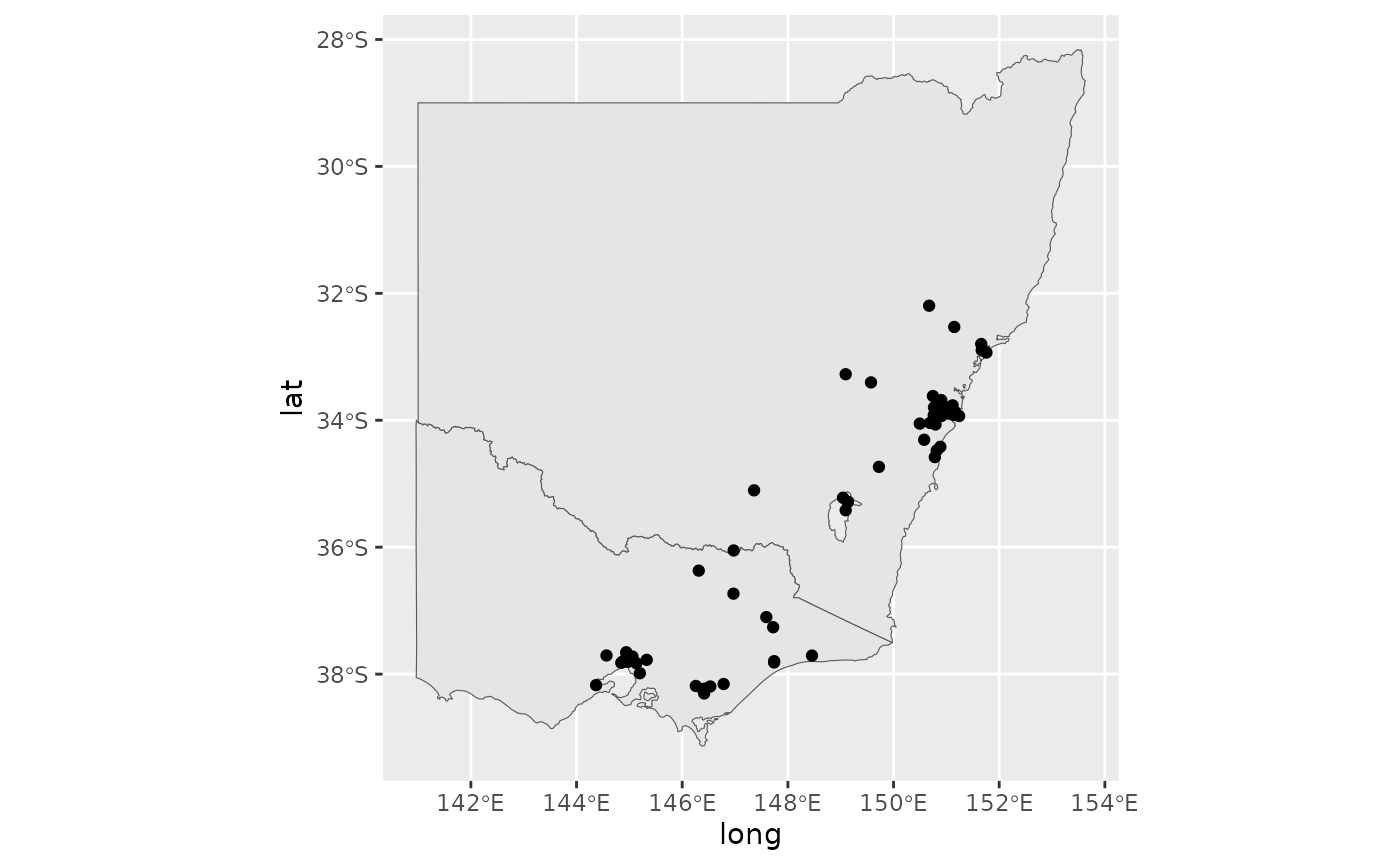
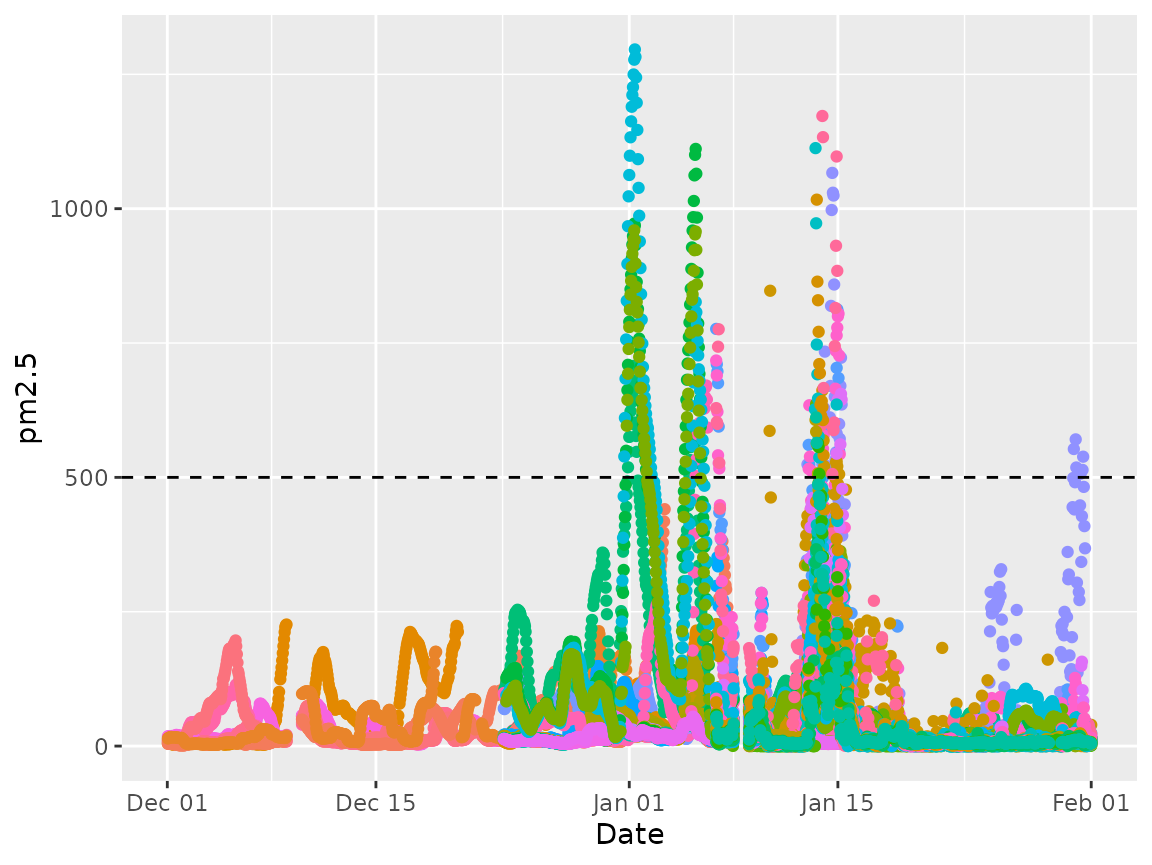
Deploying to gh-pages from @ numbats/airpurifyr@7b11ae33c0d1ab57e42b31f432745a7abb1edffd 🚀

diff --git a/articles/map-in-australia.html b/articles/map-in-australia.html
@@ -77,7 +77,11 @@
 
     
     
-<p>This helps you to understand</p>
+<p>Here we walk through a basic workflow for working with OpenAQ data
+inside <code>airpurifyr</code>. The aim is to produce some plots about
+the <a href="https://en.wikipedia.org/wiki/2019%E2%80%9320_Australian_bushfire_season" class="external-link">2019-20
+Australian Bushfire Season</a>, where air quality was extremely
+poor.</p>
 <div class="sourceCode" id="cb1"><pre class="downlit sourceCode r">
 <code class="sourceCode R"><span><span class="kw"><a href="https://rdrr.io/r/base/library.html" class="external-link">library</a></span><span class="op">(</span><span class="va"><a href="https://numbats.github.io/airpurifyr/">airpurifyr</a></span><span class="op">)</span></span>
 <span><span class="kw"><a href="https://rdrr.io/r/base/library.html" class="external-link">library</a></span><span class="op">(</span><span class="va"><a href="https://github.com/mdsumner/ozmaps" class="external-link">ozmaps</a></span><span class="op">)</span></span>
@@ -87,6 +91,17 @@
 <span><span class="kw"><a href="https://rdrr.io/r/base/library.html" class="external-link">library</a></span><span class="op">(</span><span class="va"><a href="https://colorspace.R-Forge.R-project.org/" class="external-link">colorspace</a></span><span class="op">)</span></span>
 <span><span class="kw"><a href="https://rdrr.io/r/base/library.html" class="external-link">library</a></span><span class="op">(</span><span class="va"><a href="https://tsibble.tidyverts.org" class="external-link">tsibble</a></span><span class="op">)</span></span>
 <span><span class="kw"><a href="https://rdrr.io/r/base/library.html" class="external-link">library</a></span><span class="op">(</span><span class="va"><a href="https://gganimate.com" class="external-link">gganimate</a></span><span class="op">)</span></span></code></pre></div>
+<p>The first step when working with <code>airpurifyr</code> is to set
+your API key. Register your key at <a href="https://explore.openaq.org/register" class="external-link">https://explore.openaq.org/register</a>,
+and set this key using <code><a href="../reference/set_openaq_api_key.html">set_openaq_api_key()</a></code>. Note you
+<em>can</em> access data without an API key, but it is heavily
+restricted, so the package will give you a warning for each query you
+run without an API key set.</p>
+<p>With your API key set, our first task is to find all the locations on
+the east coast of Australia. This is non-trivial, as the “locations”
+provided by OpenAQ related to sensors rather than physical locations.
+The easiest (but most API intensive) method to get locations is to
+download for a large region, and then filter.</p>
 <div class="sourceCode" id="cb2"><pre class="downlit sourceCode r">
 <code class="sourceCode R"><span><span class="va">all_aus_locations</span> <span class="op">&lt;-</span> <span class="fu"><a href="../reference/get_measurements_for_location.html">get_measurements_for_location</a></span><span class="op">(</span></span>
 <span>  country <span class="op">=</span> <span class="st">"AU"</span>,</span>
@@ -94,9 +109,19 @@
 <span>  date_from <span class="op">=</span> <span class="fu">lubridate</span><span class="fu">::</span><span class="fu"><a href="https://lubridate.tidyverse.org/reference/ymd.html" class="external-link">ymd</a></span><span class="op">(</span><span class="st">"2020-01-01"</span><span class="op">)</span>,</span>
 <span>  date_to <span class="op">=</span> <span class="fu">lubridate</span><span class="fu">::</span><span class="fu"><a href="https://lubridate.tidyverse.org/reference/ymd.html" class="external-link">ymd</a></span><span class="op">(</span><span class="st">"2020-01-14"</span><span class="op">)</span>,</span>
 <span>  parameter <span class="op">=</span> <span class="st">"pm25"</span></span>
-<span><span class="op">)</span></span>
-<span></span>
-<span><span class="va">locations_of_interest</span> <span class="op">&lt;-</span> <span class="va">all_aus_locations</span> <span class="op">|&gt;</span></span>
+<span><span class="op">)</span></span></code></pre></div>
+<p>Here, we have asked for data from Australia, from 1 Jan 2020 to 14
+Jan 2020, restricted to pm2.5. Restricting the date range and the
+parameter means that we need less API calls. Considering we are only
+using this data to get a list of stations, the smaller the set the
+better.</p>
+<p>We recommend using about two weeks of time to get locations, as not
+all sensors report on all days.</p>
+<p>Next, we filter down these locations using latitude and longitude,
+and pull down the data we actually want for a much longer period of
+time.</p>
+<div class="sourceCode" id="cb3"><pre class="downlit sourceCode r">
+<code class="sourceCode R"><span><span class="va">locations_of_interest</span> <span class="op">&lt;-</span> <span class="va">all_aus_locations</span> <span class="op">|&gt;</span></span>
 <span>  <span class="co"># East coast of Australia (roughly)</span></span>
 <span>  <span class="fu">dplyr</span><span class="fu">::</span><span class="fu"><a href="https://dplyr.tidyverse.org/reference/filter.html" class="external-link">filter</a></span><span class="op">(</span><span class="va">long</span> <span class="op">&gt;</span> <span class="fl">141</span>, <span class="va">lat</span> <span class="op">&lt;</span> <span class="op">-</span><span class="fl">31</span><span class="op">)</span> <span class="op">|&gt;</span></span>
 <span>  <span class="fu">dplyr</span><span class="fu">::</span><span class="fu"><a href="https://dplyr.tidyverse.org/reference/distinct.html" class="external-link">distinct</a></span><span class="op">(</span><span class="va">location</span><span class="op">)</span> <span class="op">|&gt;</span></span>
@@ -110,7 +135,28 @@
 <span>  date_to <span class="op">=</span> <span class="fu">lubridate</span><span class="fu">::</span><span class="fu"><a href="https://lubridate.tidyverse.org/reference/ymd.html" class="external-link">ymd</a></span><span class="op">(</span><span class="st">"2020-02-01"</span><span class="op">)</span>,</span>
 <span>  parameter <span class="op">=</span> <span class="st">"pm25"</span></span>
 <span><span class="op">)</span></span></code></pre></div>
-<div class="sourceCode" id="cb3"><pre class="downlit sourceCode r">
+<p>If you run this example, you’ll notice this query takes a very long
+time. This is because it is quite a few locations for 90 days, with
+sensors generally reporting hourly. Here we have increased the
+<code>max_observations</code> parameter which makes each query larger
+but reduces the number of queries. If you are having troubles with Error
+408 (HTTP timeout) then this can be a fix.</p>
+<p>The resulting data looks like this:</p>
+<div class="sourceCode" id="cb4"><pre class="downlit sourceCode r">
+<code class="sourceCode R"><span><span class="fu"><a href="https://rdrr.io/r/utils/head.html" class="external-link">head</a></span><span class="op">(</span><span class="va">au_east_coast_2020</span><span class="op">)</span></span>
+<span><span class="co">#&gt; <span style="color: #949494;"># A tibble: 6 × 9</span></span></span>
+<span><span class="co">#&gt;   location_id location parameter value date_utc            unit    lat  long</span></span>
+<span><span class="co">#&gt;         <span style="color: #949494; font-style: italic;">&lt;int&gt;</span> <span style="color: #949494; font-style: italic;">&lt;chr&gt;</span>    <span style="color: #949494; font-style: italic;">&lt;chr&gt;</span>     <span style="color: #949494; font-style: italic;">&lt;dbl&gt;</span> <span style="color: #949494; font-style: italic;">&lt;dttm&gt;</span>              <span style="color: #949494; font-style: italic;">&lt;chr&gt;</span> <span style="color: #949494; font-style: italic;">&lt;dbl&gt;</span> <span style="color: #949494; font-style: italic;">&lt;dbl&gt;</span></span></span>
+<span><span class="co">#&gt; <span style="color: #BCBCBC;">1</span>        <span style="text-decoration: underline;">2</span>487 Bathurst pm25        9.9 2020-02-01 <span style="color: #949494;">00:00:00</span> µg/m³ -<span style="color: #BB0000;">33.4</span>  150.</span></span>
+<span><span class="co">#&gt; <span style="color: #BCBCBC;">2</span>        <span style="text-decoration: underline;">2</span>487 Bathurst pm25       10.3 2020-01-31 <span style="color: #949494;">23:00:00</span> µg/m³ -<span style="color: #BB0000;">33.4</span>  150.</span></span>
+<span><span class="co">#&gt; <span style="color: #BCBCBC;">3</span>        <span style="text-decoration: underline;">2</span>487 Bathurst pm25       10.8 2020-01-31 <span style="color: #949494;">22:00:00</span> µg/m³ -<span style="color: #BB0000;">33.4</span>  150.</span></span>
+<span><span class="co">#&gt; <span style="color: #BCBCBC;">4</span>        <span style="text-decoration: underline;">2</span>487 Bathurst pm25       11.3 2020-01-31 <span style="color: #949494;">21:00:00</span> µg/m³ -<span style="color: #BB0000;">33.4</span>  150.</span></span>
+<span><span class="co">#&gt; <span style="color: #BCBCBC;">5</span>        <span style="text-decoration: underline;">2</span>487 Bathurst pm25       12.1 2020-01-31 <span style="color: #949494;">20:00:00</span> µg/m³ -<span style="color: #BB0000;">33.4</span>  150.</span></span>
+<span><span class="co">#&gt; <span style="color: #BCBCBC;">6</span>        <span style="text-decoration: underline;">2</span>487 Bathurst pm25       12.4 2020-01-31 <span style="color: #949494;">19:00:00</span> µg/m³ -<span style="color: #BB0000;">33.4</span>  150.</span></span>
+<span><span class="co">#&gt; <span style="color: #949494;"># ℹ 1 more variable: country &lt;chr&gt;</span></span></span></code></pre></div>
+<p>We can visualise the stations by looking at their latitude and
+longitude from the dataset.</p>
+<div class="sourceCode" id="cb5"><pre class="downlit sourceCode r">
 <code class="sourceCode R"><span><span class="va">states</span> <span class="op">&lt;-</span> <span class="fu">ozmaps</span><span class="fu">::</span><span class="va"><a href="https://rdrr.io/pkg/ozmaps/man/ozmap_states.html" class="external-link">ozmap_states</a></span> <span class="op">|&gt;</span></span>
 <span>  <span class="fu"><a href="https://dplyr.tidyverse.org/reference/filter.html" class="external-link">filter</a></span><span class="op">(</span><span class="va">NAME</span> <span class="op"><a href="https://rdrr.io/r/base/match.html" class="external-link">%in%</a></span> <span class="fu"><a href="https://rdrr.io/r/base/c.html" class="external-link">c</a></span><span class="op">(</span><span class="st">"New South Wales"</span>, <span class="st">"Victoria"</span><span class="op">)</span><span class="op">)</span></span>
 <span></span>
@@ -120,18 +166,24 @@
 <span><span class="fu"><a href="https://ggplot2.tidyverse.org/reference/ggplot.html" class="external-link">ggplot</a></span><span class="op">(</span><span class="va">states</span><span class="op">)</span> <span class="op">+</span></span>
 <span>  <span class="fu"><a href="https://ggplot2.tidyverse.org/reference/ggsf.html" class="external-link">geom_sf</a></span><span class="op">(</span><span class="op">)</span> <span class="op">+</span></span>
 <span>  <span class="fu"><a href="https://ggplot2.tidyverse.org/reference/geom_point.html" class="external-link">geom_point</a></span><span class="op">(</span><span class="fu"><a href="https://ggplot2.tidyverse.org/reference/aes.html" class="external-link">aes</a></span><span class="op">(</span>x<span class="op">=</span><span class="va">long</span>, y<span class="op">=</span><span class="va">lat</span><span class="op">)</span>, data <span class="op">=</span> <span class="va">stations</span><span class="op">)</span></span></code></pre></div>
-<p><img src="map-in-australia_files/figure-html/unnamed-chunk-3-1.png" width="700"></p>
-<div class="sourceCode" id="cb4"><pre class="downlit sourceCode r">
-<code class="sourceCode R"><span><span class="va">time_series_stations</span> <span class="op">&lt;-</span> <span class="va">au_east_coast_2020</span> <span class="op">|&gt;</span></span>
-<span>  <span class="fu"><a href="https://tsibble.tidyverts.org/reference/as-tsibble.html" class="external-link">as_tsibble</a></span><span class="op">(</span>index <span class="op">=</span> <span class="va">date_utc</span>, key <span class="op">=</span> <span class="va">location</span><span class="op">)</span> <span class="op">|&gt;</span></span>
-<span>  <span class="fu"><a href="https://tsibble.tidyverts.org/reference/fill_gaps.html" class="external-link">fill_gaps</a></span><span class="op">(</span>value <span class="op">=</span> <span class="fl">1</span>, .start <span class="op">=</span> <span class="fu"><a href="https://rdrr.io/r/base/Extremes.html" class="external-link">min</a></span><span class="op">(</span><span class="va">au_east_coast_2020</span><span class="op">$</span><span class="va">date_utc</span><span class="op">)</span><span class="op">)</span> <span class="op">|&gt;</span></span>
-<span>  <span class="fu"><a href="https://dplyr.tidyverse.org/reference/group_by.html" class="external-link">group_by</a></span><span class="op">(</span><span class="va">location</span><span class="op">)</span> <span class="op">|&gt;</span></span>
-<span>  <span class="fu">tidyr</span><span class="fu">::</span><span class="fu"><a href="https://tidyr.tidyverse.org/reference/fill.html" class="external-link">fill</a></span><span class="op">(</span><span class="va">lat</span>, <span class="va">long</span>, .direction <span class="op">=</span> <span class="st">"downup"</span><span class="op">)</span></span>
-<span></span>
-<span><span class="fu"><a href="https://ggplot2.tidyverse.org/reference/ggplot.html" class="external-link">ggplot</a></span><span class="op">(</span><span class="va">au_east_coast_2020</span>, <span class="fu"><a href="https://ggplot2.tidyverse.org/reference/aes.html" class="external-link">aes</a></span><span class="op">(</span>x <span class="op">=</span> <span class="va">date_utc</span>, y <span class="op">=</span> <span class="va">value</span>, color <span class="op">=</span> <span class="va">location</span><span class="op">)</span><span class="op">)</span> <span class="op">+</span></span>
+<p><img src="map-in-australia_files/figure-html/unnamed-chunk-2-1.png" width="700"></p>
+<p>You can see that stations are most dense near major cities, with very
+little monitoring occurring in regional Australia.</p>
+<p>We can look at frequency reporting using a dotplot.</p>
+<div class="sourceCode" id="cb6"><pre class="downlit sourceCode r">
+<code class="sourceCode R"><span><span class="fu"><a href="https://ggplot2.tidyverse.org/reference/ggplot.html" class="external-link">ggplot</a></span><span class="op">(</span><span class="va">au_east_coast_2020</span>, <span class="fu"><a href="https://ggplot2.tidyverse.org/reference/aes.html" class="external-link">aes</a></span><span class="op">(</span>x <span class="op">=</span> <span class="va">date_utc</span>, y <span class="op">=</span> <span class="va">value</span>, color <span class="op">=</span> <span class="va">location</span><span class="op">)</span><span class="op">)</span> <span class="op">+</span></span>
 <span>  <span class="fu"><a href="https://ggplot2.tidyverse.org/reference/geom_point.html" class="external-link">geom_point</a></span><span class="op">(</span><span class="op">)</span> <span class="op">+</span></span>
-<span>  <span class="fu"><a href="https://ggplot2.tidyverse.org/reference/guides.html" class="external-link">guides</a></span><span class="op">(</span>colour <span class="op">=</span> <span class="st">"none"</span><span class="op">)</span></span></code></pre></div>
-<p><img src="map-in-australia_files/figure-html/unnamed-chunk-4-1.png" width="700"></p>
+<span>  <span class="fu"><a href="https://ggplot2.tidyverse.org/reference/guides.html" class="external-link">guides</a></span><span class="op">(</span>colour <span class="op">=</span> <span class="st">"none"</span><span class="op">)</span> <span class="op">+</span></span>
+<span>  <span class="fu"><a href="https://ggplot2.tidyverse.org/reference/labs.html" class="external-link">labs</a></span><span class="op">(</span>x <span class="op">=</span> <span class="st">"Date"</span>, y <span class="op">=</span> <span class="st">"pm2.5"</span><span class="op">)</span> <span class="op">+</span></span>
+<span>  <span class="fu"><a href="https://ggplot2.tidyverse.org/reference/geom_abline.html" class="external-link">geom_hline</a></span><span class="op">(</span><span class="fu"><a href="https://ggplot2.tidyverse.org/reference/aes.html" class="external-link">aes</a></span><span class="op">(</span>yintercept <span class="op">=</span> <span class="fl">500</span><span class="op">)</span>, linetype <span class="op">=</span> <span class="st">"dashed"</span><span class="op">)</span></span></code></pre></div>
+<p><img src="map-in-australia_files/figure-html/unnamed-chunk-3-1.png" width="576"></p>
+<p>Here, each set of dots represents one station. You can see that there
+are patches of missingness across all stations.</p>
+<p>You can also see the effects of the fires, represented by the large
+spikes in pm2.5 measurements. According to the <a href="https://www.epa.vic.gov.au/for-community/environmental-information/air-quality/pm25-particles-in-the-air" class="external-link">Victorian
+Environmental Protection Authority</a>, pm2.5 levels above 500 (marked
+by the dashed line in the previous plot) are considered “extremely
+poor”.</p>
   </main>
 </div>
 
